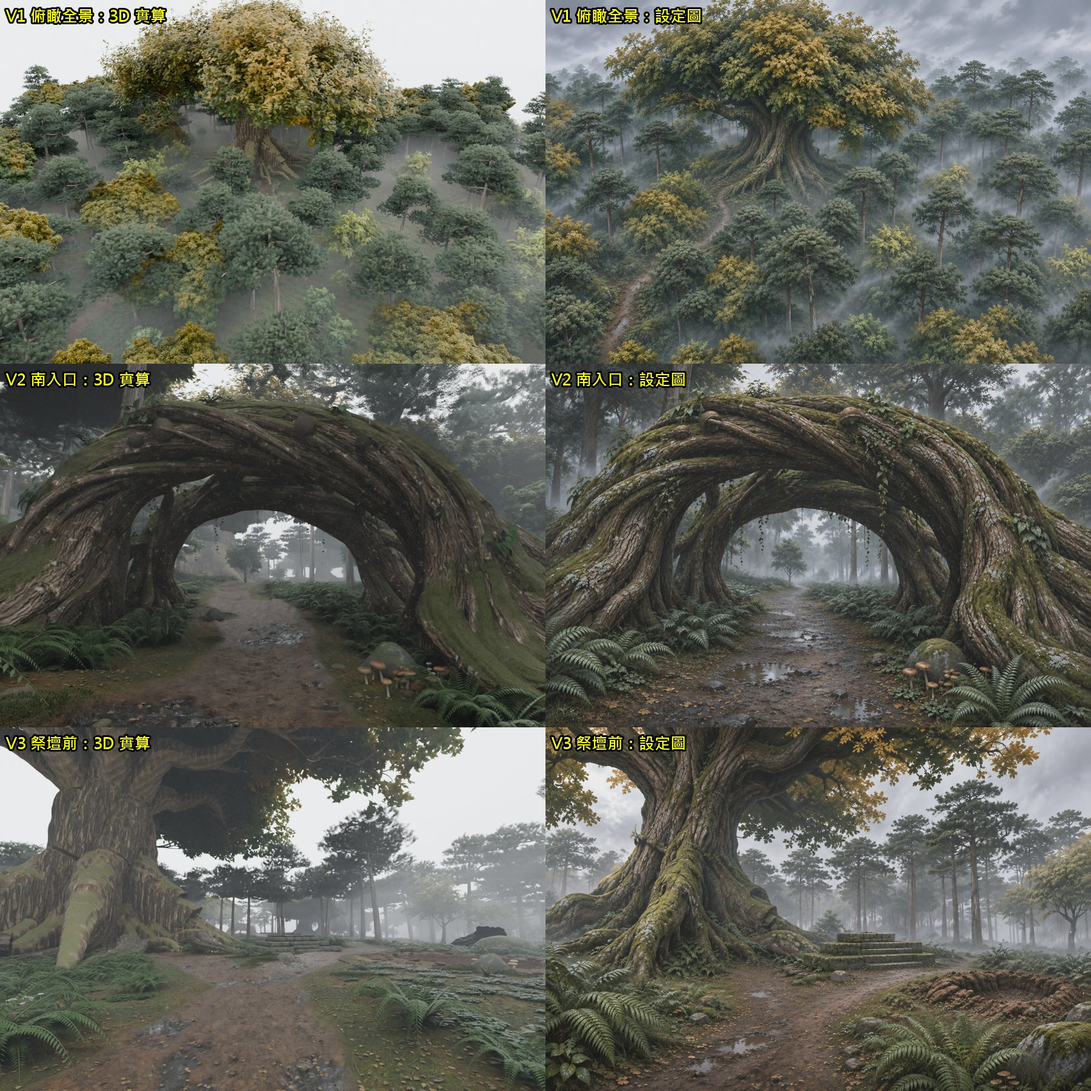
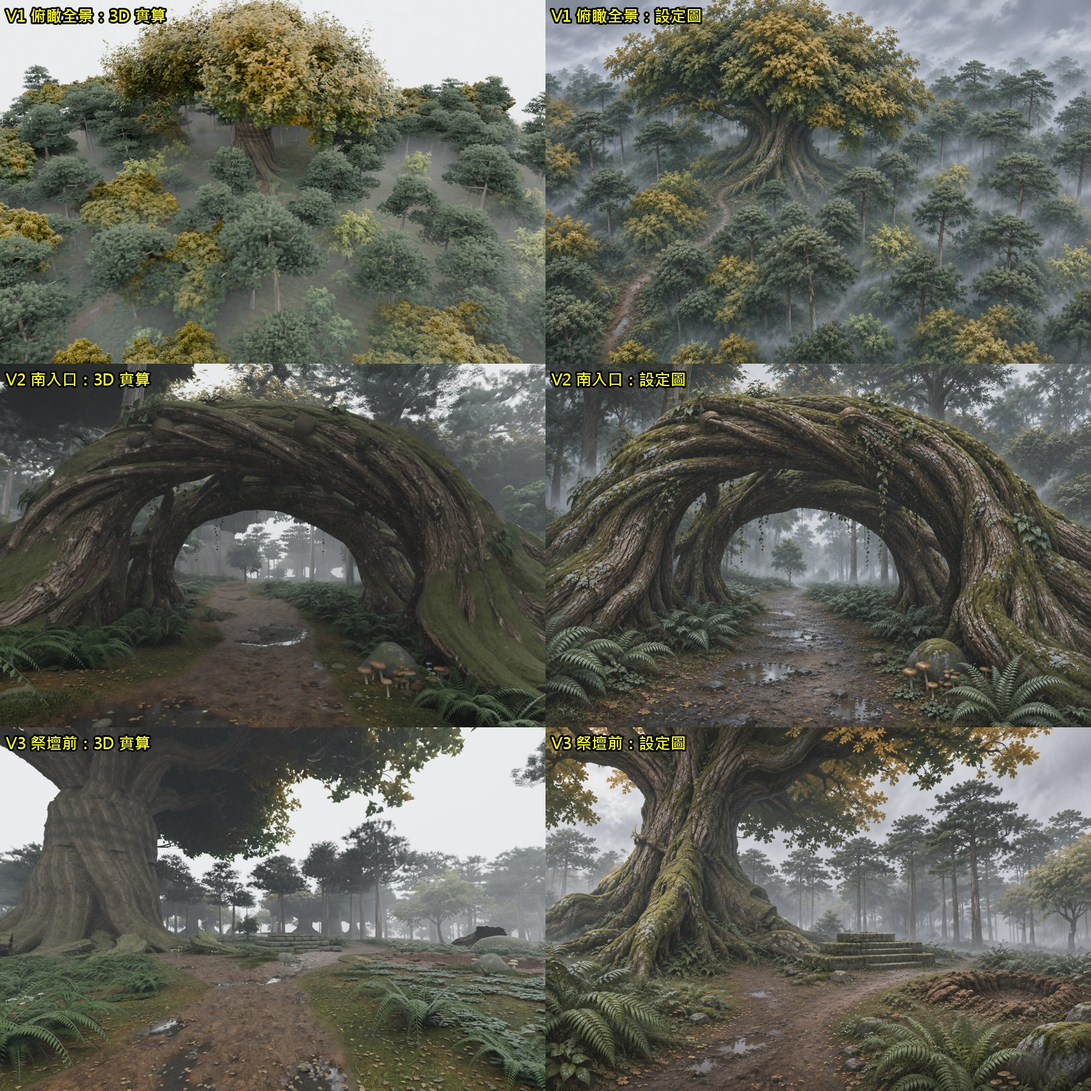
D2: rebuild god tree base as twisted strands flowing into roots (v005), bark UV follows strands and branches, grey-brown bark with relief; reflective flat puddles; more moss on arches and long roots

diff --git a/art/source/core-d2-v1/gt01_braid_trunk.py b/art/source/core-d2-v1/gt01_braid_trunk.py
@@ -1,0 +1,276 @@
+# 神木下半段重做（z1nnz 11/22「紋理跟流暢性沒有做好，很像蜘蛛腳」）
+# 原本：圓柱樹幹 + 幾塊扁平板根（頂面整片苔）→ 改成二十幾股扭轉的樹筋，從樹幹中段一路流下來、在地面分成大小樹根（設定圖 V3）
+# 每股記下自己的方向，熔接後每個頂點照最近那股算 UV → 樹皮紋路順著股走
+import bpy, bmesh, math, random, sys, time
+import numpy as np
+from mathutils import Vector, kdtree, noise
+S = 'D:/chengtian/4-素材與快取/bark-sample/GT01_out/'
+try:
+    VS = float(sys.argv[-1])
+except ValueError:
+    VS = .1
+ZCUT = 16.0
+R = random.Random(11)
+t0 = time.time()
+with bpy.data.libraries.load(S + 'GT01_GodTree_v004_fused.blend', link=False) as (s, d):
+    d.objects = [n for n in s.objects if n.endswith('_LOD0')]
+for o in d.objects:
+    bpy.context.scene.collection.objects.link(o)
+w = bpy.data.objects['GT01_GodTree_Wood_LOD0']
+
+# 1) 原本樹幹切掉 z<16 的部分（樹幹下段 + 板根）
+bm = bmesh.new(); bm.from_mesh(w.data)
+bmesh.ops.delete(bm, geom=[v for v in bm.verts if v.co.z < ZCUT], context='VERTS')
+bd = [e for e in bm.edges if e.is_boundary]
+bmesh.ops.holes_fill(bm, edges=bd, sides=0)
+print('CUT', len(bm.verts))
+
+
+def lerp(a, b, t): return a + (b - a) * t
+def smooth(t): return t * t * (3 - 2 * t)
+
+
+STR = []   # 每股：[(point, radius, zsquash)]
+
+
+def main_strand(th0, Rg, Rend, rA, twist, seed):
+    pts = []
+    n = 160
+    # s 0→.45 樹幹段（z 24→6），.45→.7 外擴下彎（z 6→.4），.7→1 貼地延伸變細
+    for k in range(n + 1):
+        s_ = k / n
+        if s_ < .45:
+            u = s_ / .45
+            z = lerp(24, 9, u)
+            rad = lerp(1.6, rA, smooth(min(1, u * 1.4)))
+            # z≥16：股的外緣貼著原本樹幹（半徑約 8.3）→ 接縫處不會凸出一圈；16 以下才慢慢鼓出來
+            r = lerp(8.3 - rad * .9, 8.8 - rA * .5, smooth(min(1, max(0, (16 - z) / 7))))
+            th = th0 + twist * u
+            sq = 1.0
+        elif s_ < .7:
+            u = (s_ - .45) / .25
+            z = 9 - 8.1 * math.sin(u * math.pi / 2)
+            r9 = 8.8 - rA * .5
+            r = r9 + (Rg - r9) * (1 - math.cos(u * math.pi / 2))
+            rad = lerp(rA, rA * .55, u)
+            th = th0 + twist + twist * .35 * u
+            sq = lerp(1.0, .75, u)
+        else:
+            u = (s_ - .7) / .3
+            z = .9 - .5 * u if u < .7 else .55 - 1.6 * ((u - .7) / .3) ** 1.5
+            r = lerp(Rg, Rend, u)
+            rad = rA * .55 * (1 - .85 * u ** 1.2)
+            th = th0 + twist * 1.35 + twist * .25 * u
+            sq = .7
+        wob = Vector((noise.noise(Vector((s_ * 6, seed, 0))), noise.noise(Vector((s_ * 6, seed, 7))), 0)) * (.6 if s_ > .4 else .25)
+        pts.append((Vector((math.cos(th) * r, math.sin(th) * r, z)) + wob, rad, sq))
+    return pts
+
+
+N = 16   # 11/22：股少一點、粗細差大一點，地面的根才分得開（22 股會黏成一整圈裙子）
+TW = 1.0
+roots = []
+for i in range(N):
+    th0 = 2 * math.pi * i / N + R.uniform(-.08, .08)
+    long_ = R.random() < .55
+    Rg = R.uniform(16, 21) if long_ else R.uniform(13, 16)
+    Rend = Rg + (R.uniform(14, 24) if long_ else R.uniform(5, 10))
+    big = R.random() < .55
+    pts = main_strand(th0, Rg + (2 if big else -1), Rend, R.uniform(2.4, 2.9) if big else R.uniform(1.4, 1.9), TW * R.uniform(.8, 1.15), i * 3.1)
+    STR.append(pts)
+    roots.append(pts)
+
+# 支根：從主根外擴段分岔出去
+for i, pts in enumerate(roots):
+    for _ in range(R.choice((1, 1, 2))):
+        k0 = R.randint(95, 125)
+        p0, r0, _s = pts[k0]
+        dirv = pts[k0 + 6][0] - p0
+        dirv.z = 0
+        dirv.normalize()
+        side = Vector((-dirv.y, dirv.x, 0)) * R.choice((-1, 1))
+        L = R.uniform(6, 14)
+        sub = []
+        n = 60
+        for k in range(n + 1):
+            u = k / n
+            q = p0 + dirv * (L * u) + side * (L * .45 * u ** .8)
+            q.z = lerp(p0.z, -.8, u ** 1.3)
+            q += Vector((noise.noise(Vector((u * 5, i, 3))), noise.noise(Vector((u * 5, i, 9))), 0)) * .4
+            sub.append((q, r0 * .55 * (1 - .85 * u), .7))
+        STR.append(sub)
+
+# 樹幹表面細筋：主筋之間的溝裡，像一束束扭在一起
+for i in range(0):   # 11/22 表面細筋拿掉：頂端變成一顆顆香腸頭
+    th0 = 2 * math.pi * (i + .5) / N
+    pts = []
+    n = 80
+    z_top = R.uniform(12, 17)
+    z_bot = R.uniform(5, 8)
+    for k in range(n + 1):
+        u = k / n
+        z = lerp(z_top, z_bot, u)
+        uu = min(1, max(0, (24 - z) / 15))
+        r = lerp(7.6, 9.0, smooth(uu) ** .8) + 1.2
+        th = th0 + TW * uu * 1.05
+        rad = 1.1 * math.sin(math.pi * u) ** .6 + .05
+        pts.append((Vector((math.cos(th) * r, math.sin(th) * r, z)), rad, 1.0))
+    STR.append(pts)
+print('STRANDS', len(STR))
+
+SEG = 20
+
+
+def tube(bm_, pts):
+    rings = []
+    prev_n = None
+    frames = []
+    for k, (p, rad, sq) in enumerate(pts):
+        a = pts[max(0, k - 1)][0]
+        b = pts[min(len(pts) - 1, k + 1)][0]
+        tng = (b - a).normalized()
+        if prev_n is None:
+            nrm = tng.cross(Vector((0, 0, 1)))
+            if nrm.length < 1e-3:
+                nrm = tng.cross(Vector((1, 0, 0)))
+            nrm.normalize()
+        else:
+            nrm = (prev_n - tng * prev_n.dot(tng)).normalized()
+        prev_n = nrm
+        bnm = tng.cross(nrm)
+        frames.append((tng, nrm, bnm))
+        ring = []
+        for j in range(SEG):
+            a_ = 2 * math.pi * j / SEG
+            off = nrm * math.cos(a_) + bnm * math.sin(a_)
+            off.z *= sq
+            ring.append(bm_.verts.new(p + off * rad))
+        rings.append(ring)
+    for k in range(len(rings) - 1):
+        r1, r2 = rings[k], rings[k + 1]
+        for j in range(SEG):
+            bm_.faces.new((r1[j], r1[(j + 1) % SEG], r2[(j + 1) % SEG], r2[j]))
+    for ring, p in ((rings[0], pts[0][0]), (rings[-1], pts[-1][0])):
+        c = bm_.verts.new(p)
+        for j in range(SEG):
+            try:
+                bm_.faces.new((ring[j], ring[(j + 1) % SEG], c))
+            except ValueError:
+                pass
+    return frames
+
+
+FR = [tube(bm, pts) for pts in STR]
+core = bmesh.ops.create_cone(bm, cap_ends=True, segments=32, radius1=7.4, radius2=6.0, depth=21)
+bmesh.ops.translate(bm, verts=core['verts'], vec=Vector((0, 0, 8.5)))
+bmesh.ops.recalc_face_normals(bm, faces=bm.faces)
+bm.to_mesh(w.data)
+bm.free()
+print('PRE-REMESH', len(w.data.vertices), round(time.time() - t0))
+
+bpy.context.view_layer.objects.active = w
+m = w.modifiers.new('R', 'REMESH'); m.mode = 'VOXEL'; m.voxel_size = VS; m.adaptivity = 0; m.use_smooth_shade = True
+bpy.ops.object.modifier_apply(modifier='R')
+cs = w.modifiers.new('S', 'CORRECTIVE_SMOOTH'); cs.factor = .5; cs.iterations = 8; cs.smooth_type = 'SIMPLE'; cs.use_only_smooth = True
+bpy.ops.object.modifier_apply(modifier='S')
+dsp = w.modifiers.new('D', 'DISPLACE')   # 表面低頻小瘤：股不要像水管
+tx = bpy.data.textures.new('BraidLumps', 'CLOUDS'); tx.noise_scale = 1.4
+dsp.texture = tx; dsp.strength = .25; dsp.mid_level = .5; dsp.texture_coords = 'GLOBAL'
+bpy.ops.object.modifier_apply(modifier='D')
+print('REMESH', len(w.data.vertices), round(time.time() - t0))
+
+# 順著股的 UV
+samp = []
+meta = []
+for si, (pts, frs) in enumerate(zip(STR, FR)):
+    acc = 0.0
+    for k, ((p, rad, sq), (tg, nr, bn)) in enumerate(zip(pts, frs)):
+        if k:
+            acc += (p - pts[k - 1][0]).length
+        samp.append(p)
+        meta.append((si, rad, acc, nr, bn))
+kd = kdtree.KDTree(len(samp))
+for i, p in enumerate(samp):
+    kd.insert(p, i)
+kd.balance()
+# v003 原模型（有 TileUV：V 沿枝管方向、約 0.38/m）→ 三角化後做 BVH，上段頂點取最近面的 UV
+with bpy.data.libraries.load(S + 'GT01_GodTree_v003.blend', link=False) as (s3, d3):
+    d3.objects = ['GT01_GodTree_Wood_LOD0']
+_o3 = d3.objects[0]
+_b3 = bmesh.new(); _b3.from_mesh(_o3.data)
+bmesh.ops.triangulate(_b3, faces=_b3.faces)
+_tl = _b3.loops.layers.uv['TileUV']
+tris = []
+for f_ in _b3.faces:
+    tris.append(([l_.vert.co.copy() for l_ in f_.loops], [tuple(l_[_tl].uv) for l_ in f_.loops]))
+from mathutils.bvhtree import BVHTree
+bvh = BVHTree.FromBMesh(_b3)
+_b3.free()
+
+
+def barycentric(p, a, b, c):
+    v0, v1, v2 = b - a, c - a, p - a
+    d00, d01, d11 = v0.dot(v0), v0.dot(v1), v1.dot(v1)
+    d20, d21 = v2.dot(v0), v2.dot(v1)
+    den = d00 * d11 - d01 * d01
+    if abs(den) < 1e-12:
+        return (1, 0, 0)
+    v = (d11 * d20 - d01 * d21) / den
+    w_ = (d00 * d21 - d01 * d20) / den
+    return (1 - v - w_, v, w_)
+
+
+me = w.data
+nv = len(me.vertices)
+co = np.zeros(nv * 3); me.vertices.foreach_get('co', co); co = co.reshape(-1, 3)
+U = np.zeros(nv); V = np.zeros(nv)
+for i in range(nv):
+    x, y, z = co[i]
+    best = None
+    if z < ZCUT + 9:
+        pv = Vector((x, y, z))
+        for (q, idx, dist) in kd.find_n(pv, 6):
+            sd = dist - meta[idx][1]
+            if best is None or sd < best[0]:
+                best = (sd, idx)
+    if best is not None and best[0] < 1.2:
+        si, rad, acc, nr, bn = meta[best[1]]
+        dv = pv - samp[best[1]]
+        ang = math.atan2(dv.dot(bn), dv.dot(nr))
+        U[i] = ang * max(rad, .6) + si * 37.0
+        V[i] = acc
+    else:   # 上段原本的樹幹/枝：從 v003 原模型的 TileUV（沿著每根枝管走）轉過來
+        hit = bvh.find_nearest(Vector((x, y, z)))
+        if hit[0] is None:
+            U[i] = 1000.0; V[i] = -z
+        else:
+            loc, _n, fi, _d = hit
+            tri = tris[fi]
+            bc = barycentric(loc, *tri[0])
+            uvt = tri[1]
+            U[i] = 1000.0 + (uvt[0][0] * bc[0] + uvt[1][0] * bc[1] + uvt[2][0] * bc[2]) / .344
+            V[i] = (uvt[0][1] * bc[0] + uvt[1][1] * bc[1] + uvt[2][1] * bc[2]) / .379
+uvl = me.uv_layers.new(name='Flow')
+li = np.zeros(len(me.loops), dtype=np.int64); me.loops.foreach_get('vertex_index', li)
+uv = np.stack([U[li], V[li]], 1)
+ls = np.zeros(len(me.polygons), dtype=np.int64); me.polygons.foreach_get('loop_start', ls)
+lt = np.zeros(len(me.polygons), dtype=np.int64); me.polygons.foreach_get('loop_total', lt)
+PER = 2 * math.pi * 8
+for f in np.nonzero(np.array([np.ptp(uv[a:a + n, 0]) > 3 for a, n in zip(ls, lt)]))[0]:
+    a, n = ls[f], lt[f]
+    u = uv[a:a + n, 0].copy()
+    med = np.median(u)
+    u[:] = med   # 跨股或跨 UV 島接縫的面：壓成同一個 u（面很小，看不出來）
+    uv[a:a + n, 0] = u
+for f in np.nonzero(np.array([np.ptp(uv[a:a + n, 1]) > 3 for a, n in zip(ls, lt)]))[0]:
+    a, n = ls[f], lt[f]
+    uv[a:a + n, 1] = np.median(uv[a:a + n, 1])
+uvl.data.foreach_set('uv', uv.ravel())
+print('UV', round(time.time() - t0))
+w.name = 'GT01_GodTree_Wood_LOD0'
+bpy.data.objects.remove(_o3, do_unlink=True)
+for o in list(bpy.data.objects):
+    if o.type != 'MESH' or not o.name.endswith('_LOD0'):
+        bpy.data.objects.remove(o, do_unlink=True)
+bpy.ops.wm.save_as_mainfile(filepath=S + 'GT01_GodTree_v005_braid.blend')
+print('SAVED', round(time.time() - t0))
